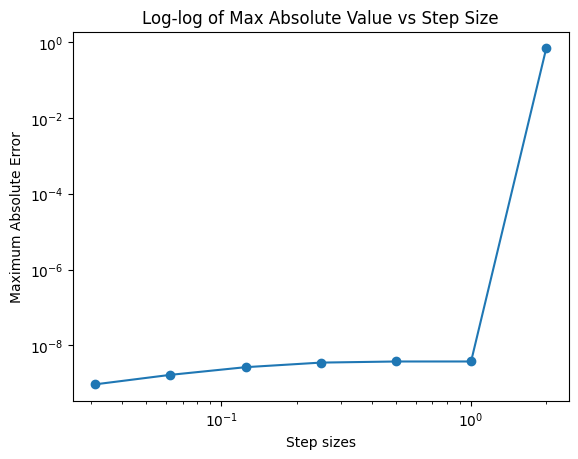
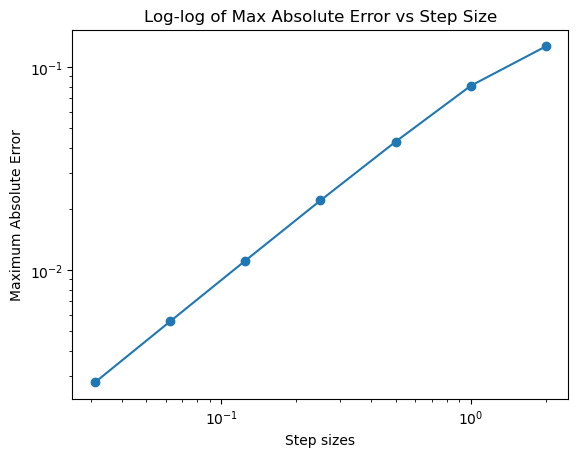
fixed abs error

diff --git a/forward_euler_solver.py b/forward_euler_solver.py
@@ -60,12 +60,16 @@ def E(h):
     tn = 25
     I0 = 0.01
 
-
     forward_values = forward_euler(S_dot, I_dot, S0, I0, t0, tn, h)
     t_values, S_values, I_values = forward_values
 
+    error_values = []
 
-    max_error = abs(I_values[-1] - I(tn,I0)) * tn
+    for i in range(len(t_values)):
+        abs_error = abs(I_values[i] - I(t_values[i],I0)) 
+        error_values.append(abs_error)
+
+    max_error = max(error_values)
 
 
     return max_error
